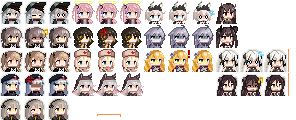
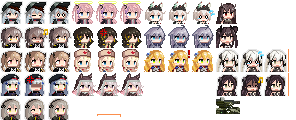
임시 스프라이트 추가 및 도전과제 추가
힘물약 X

Changed region(s): [[0.7297, 0.8, 0.8209, 0.95]]

diff --git a/core/src/main/java/com/gfpixel/gfpixeldungeon/Challenges.java b/core/src/main/java/com/gfpixel/gfpixeldungeon/Challenges.java
@@ -31,6 +31,7 @@ import com.gfpixel.gfpixeldungeon.items.food.Food;
 import com.gfpixel.gfpixeldungeon.items.food.Maccol;
 import com.gfpixel.gfpixeldungeon.items.food.SmallRation;
 import com.gfpixel.gfpixeldungeon.items.potions.PotionOfHealing;
+import com.gfpixel.gfpixeldungeon.items.potions.PotionOfStrength;
 
 public class Challenges {
 
@@ -42,7 +43,7 @@ public class Challenges {
 	public static final int SWARM_INTELLIGENCE	= 16;
 	public static final int DARKNESS			= 32;
 	public static final int NO_SCROLLS		    = 64;
-	public static final int DUMMY_1				= 128;
+	public static final int NO_STRENGTH				= 128;
 	public static final int DUMMY_2				= 256;
 	public static final int DUMMY_3				= 512;
 
@@ -56,13 +57,13 @@ public class Challenges {
 			"swarm_intelligence",
 			"darkness",
 			"no_scrolls",
-			"dummy1",
+			"no_strength",
 			"dummy2",
 			"dummy3"
 	};
 
 	public static final int[] MASKS = {
-			NO_FOOD, NO_ARMOR, NO_HEALING, NO_HERBALISM, SWARM_INTELLIGENCE, DARKNESS, NO_SCROLLS, DUMMY_1, DUMMY_2, DUMMY_3
+			NO_FOOD, NO_ARMOR, NO_HEALING, NO_HERBALISM, SWARM_INTELLIGENCE, DARKNESS, NO_SCROLLS, NO_STRENGTH, DUMMY_2, DUMMY_3
 	};
 
 	public static boolean isItemBlocked( Item item ){
@@ -97,6 +98,14 @@ public class Challenges {
 			}
 		}
 
+		if (Dungeon.isChallenged(NO_STRENGTH)){
+			if (item instanceof PotionOfStrength){
+				return true;
+			} else if (item instanceof Blandfruit
+					&& ((Blandfruit) item).potionAttrib instanceof PotionOfStrength){
+				return true;
+			}
+		}
 		return false;
 
 	}
